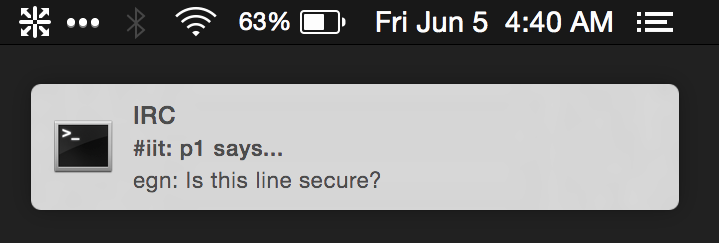
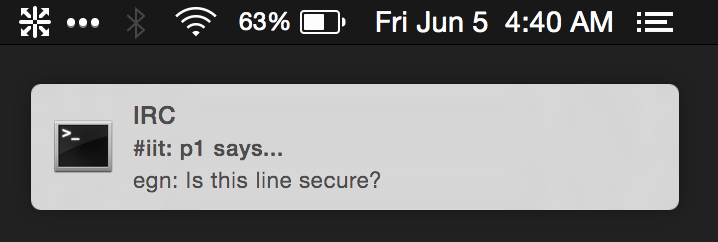
replaces terminal-notifier image with even width/height; tries img tag

diff --git a/README.md b/README.md
@@ -5,7 +5,7 @@ A general purpose popup notifier sender/receiver for using WebSockets (via [Push
 `notify-push` employs a Receiver (*currently OS X only*) and Sender(s) to push messages from the Sender(s) to the Receiver.
 
 
-![IRC Example](images/doc/terminal-notifier.png "IRC Example")
+![IRC Example](<img src='images/doc/terminal-notifier.png' width='359' height='121'/>)
 
 **Example Use Case**:
 You have `irssi` set up in a `screen` on a remote machine and you want to be notified on your laptop/desktop whenever your name gets highlighted.
